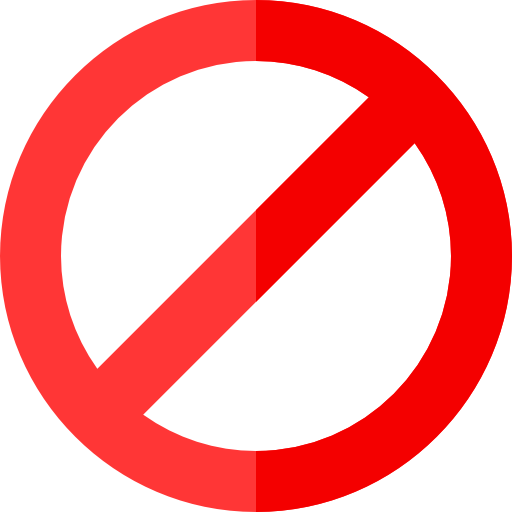
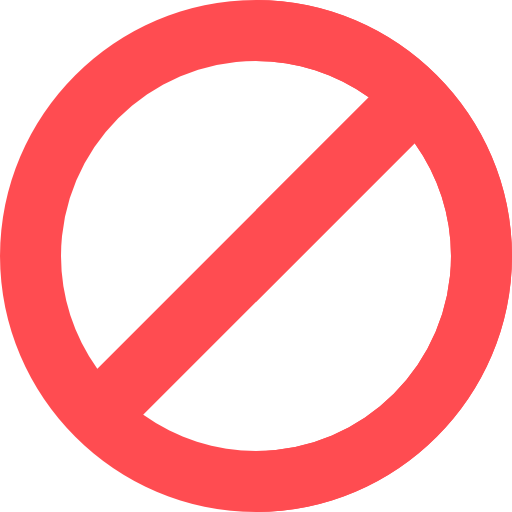
adjust the design UI

diff --git a/OMS Front End/src/components/ui/customdropdown/data.js b/OMS Front End/src/components/ui/customdropdown/data.js
@@ -1,9 +1,24 @@
 // data.js
 export const options = [
-    { value: "university_of_oxford", label: "University Of Oxford", status: "active" },
-    { value: "ananke_therapeutics", label: "Ananke Therapeutics Inc.", status: "pending" },
-    { value: "athenex", label: "Athenex", status: "active" },
-    { value: "carmot_joon", label: "Carmot Therapeutics - Joon Jeong", status: "blocked" },
-    { value: "carmot_galen", label: "Carmot Therapeutics - Galen Loving", status: "blocked" },
-  ];
-  
+  {
+    value: "university_of_oxford",
+    label: "University Of Oxford",
+    status: "active",
+  },
+  {
+    value: "ananke_therapeutics",
+    label: "Ananke Therapeutics Inc.",
+    status: "pending",
+  },
+  { value: "athenex", label: "Athenex", status: "active" },
+  {
+    value: "carmot_joon",
+    label: "Carmot Therapeutics - Joon Jeong",
+    status: "blocked",
+  },
+  {
+    value: "carmot_galen",
+    label: "Carmot Therapeutics - Galen Loving",
+    status: "blocked",
+  },
+];

diff --git a/OMS Front End/src/layouts/components/sidebar/Sidebar.scss b/OMS Front End/src/layouts/components/sidebar/Sidebar.scss
@@ -153,7 +153,7 @@
 
                   ul {
                     &.sidebar-dropdown {
-                      padding-left: 30px;
+                      padding-left: 35px;
                       height: 0;
                       overflow: hidden;
                       transition: 0.5s all;
@@ -210,18 +210,6 @@
 
                     ul {
                       position: relative;
-
-                      &::before {
-                        content: "";
-                        position: absolute;
-                        left: 15px;
-                        top: 0%;
-                        transform: translateY(-50%);
-                        height: 100%;
-                        width: 1px;
-                        height: 85%;
-                        background: #606060;
-                      }
 
                       &.sidebar-dropdown {
                         height: auto;

diff --git a/OMS Front End/src/pages/Security/userManagement/features/config/UserForm.data.js b/OMS Front End/src/pages/Security/userManagement/features/config/UserForm.data.js
@@ -105,9 +105,9 @@ export const userFormData = {
       },
       dropdownSettings: {
         colorMap: {
-          active: "black",
-          pending: "#ffcc00",
-          blocked: "red"
+          active: "#00b100",
+          pending: "#ffd500",
+          blocked: "#ff4c51"
         },
         textMap: {
           active : { "text": "Active" },
